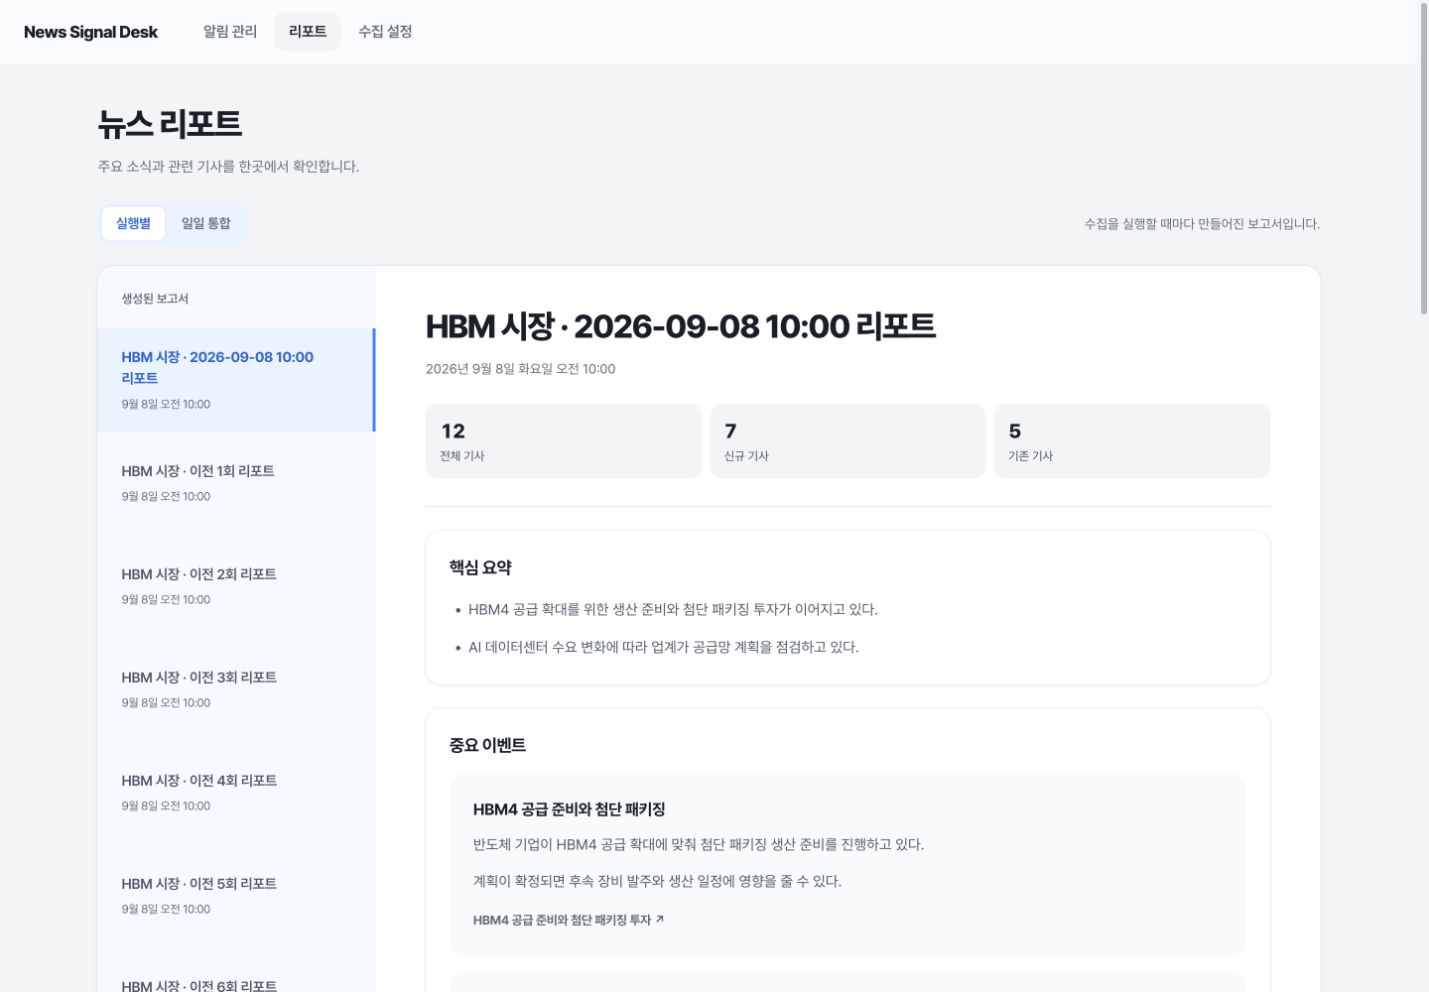
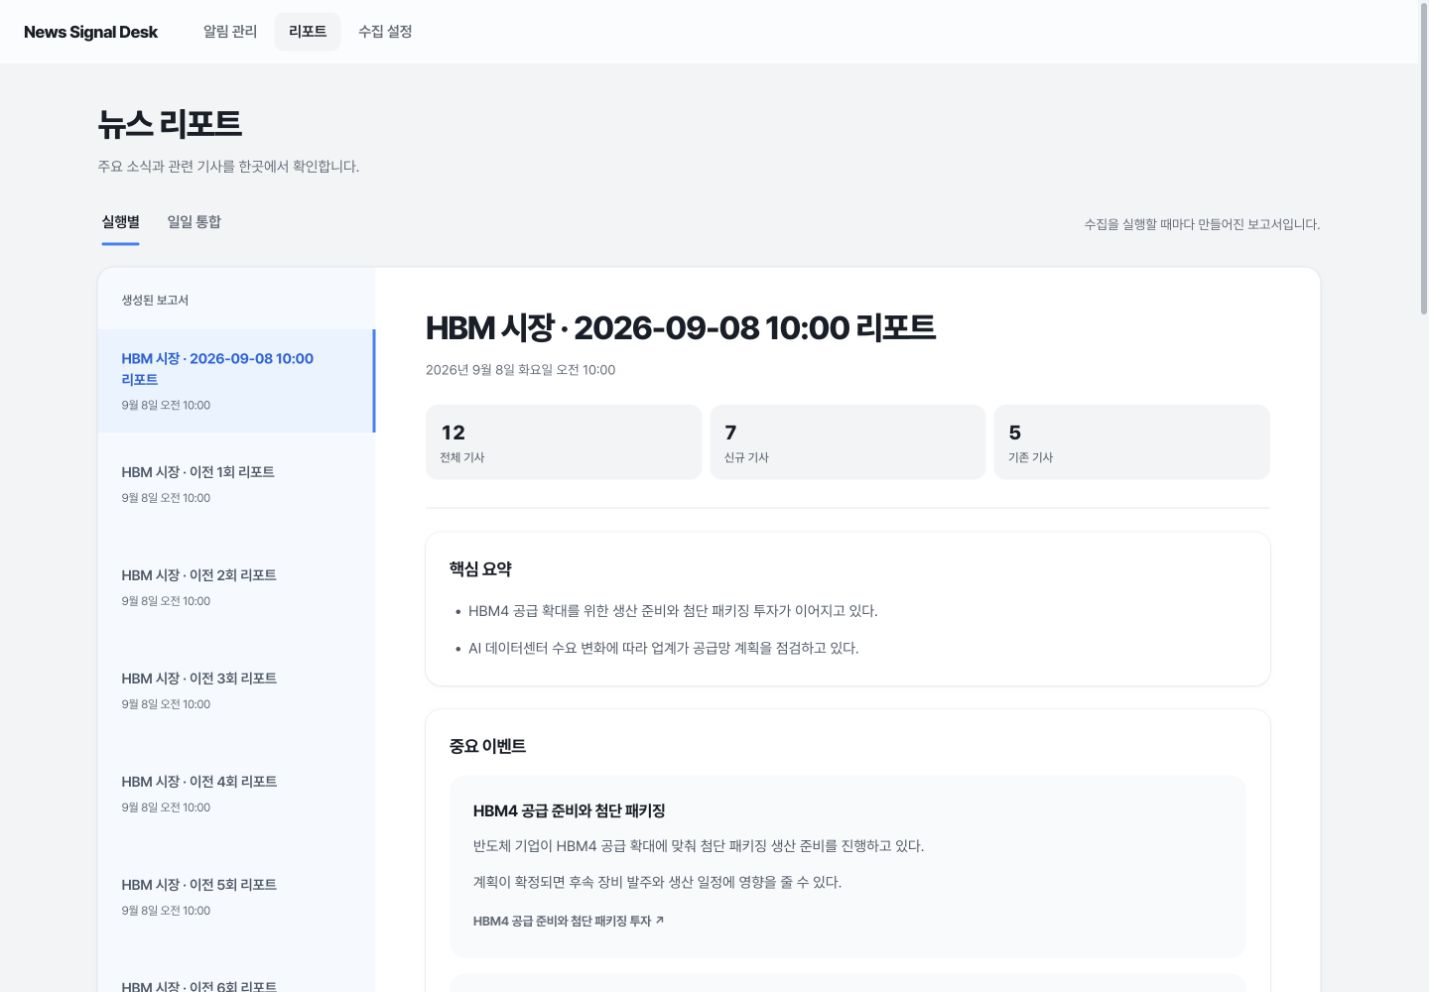
[REFACTOR/#194] 보고서 범위 선택을 텍스트 탭으로 정리

diff --git a/FE/src/App.css b/FE/src/App.css
@@ -2655,23 +2655,38 @@ body.modal-open {
 }
 
 .segmented.report-scope-tabs {
-  padding: 0.25rem;
-  border-radius: var(--radius-sm);
-  background: var(--primary-weak);
+  gap: 1.25rem;
+  padding: 0;
+  border-radius: 0;
+  background: transparent;
 }
 
 .report-scope-tabs .segmented-thumb {
-  border-radius: var(--radius-xs);
-  box-shadow: var(--hairline);
+  border-radius: 0;
+  background: transparent;
+  box-shadow: none;
+}
+
+.report-scope-tabs .segmented-thumb::after {
+  position: absolute;
+  right: 0.25rem;
+  bottom: 0;
+  left: 0.25rem;
+  height: 3px;
+  border-radius: 999px;
+  background: var(--primary);
+  content: '';
 }
 
 .report-scope-tabs .segmented-option {
-  border-radius: var(--radius-xs);
+  padding: 0.5rem 0.25rem 0.8rem;
+  border-radius: 0;
+  font-size: 0.94rem;
 }
 
 .report-scope-tabs .segmented-option.active,
 .report-scope-tabs .segmented-option.active:hover {
-  color: var(--primary-strong);
+  color: var(--fg);
 }
 
 .report-scope-hint {

diff --git a/docs/validation/refactor-194/validation.md b/docs/validation/refactor-194/validation.md
@@ -29,7 +29,7 @@
 - 보고서 제목의 카드 상단 간격을 24px에서 40px로 늘렸다. 목록 제목의 상단 간격은 36px에서 24px로 줄이고 목록 항목의 텍스트와 가로 정렬을 맞췄다.
 - 사용자 참고 이미지에 맞춰 데스크톱 목록을 직선형 사이드바로 구성했다. 선택 행 전체에 기존 옅은 파란색을 적용하고 본문에 닿는 오른쪽 끝에 3px 파란 포인트를 표시한다. 둥근 외곽 카드와 흰 본문은 유지한다. 굴곡진 연결 모양·위치 측정 코드 없이 CSS로 구현했다.
 - 사이드바 바탕은 선택색과 같은 계열의 아주 옅은 블루로 변경했다. 기존 `--primary-weak`를 흰색과 45% 혼합하고 hover는 70%, 선택 행은 기존 100% 색상으로 구분한다. CUA에서 기본 배경·선택 면·본문의 색상 조화를 확인하고 FE production build를 다시 통과했다.
-- 실행별·일일 통합 두 버튼에만 블루 트랙과 작은 둥근 모서리, 흰 선택 면·파란 글자를 적용했다. 보고서 바깥의 기존 위치와 간격을 유지하며 가로로 감싸는 도구 영역이나 외곽 박스는 추가하지 않았다. 기존 Segmented 이동 모션을 유지했고 CUA에서 일일 통합 전환 시 보고서 목록·본문 변경, 실행별 복귀, 모바일 가로 넘침 없음을 확인했다.
+- 실행별·일일 통합은 배경 없는 텍스트 탭으로 정리했다. 선택한 탭은 진한 글자와 글자 폭에 맞춘 3px 파란 밑줄로 표시하며, 보고서 바깥의 기존 위치와 간격을 유지한다. 기존 Segmented 이동 모션을 유지했고 CUA에서 일일 통합 전환 시 보고서 목록·본문 변경, 실행별 복귀, 모바일 가로 넘침 없음을 확인했다. 변경 후 FE production build가 통과했다.
 - 본문 전체의 좌우 여백은 화면 폭에 따라 32~56px로 늘렸다(1440px에서 약 50px, 920px에서 약 32px). 제목·통계·본문 카드가 같은 기준선으로 정렬된다. 제목 위 40px 여백은 유지했다.
 - CUA에서 1440px·920px·390px을 확인했다. 데스크톱의 선택 항목 오른쪽과 본문 왼쪽 좌표 차이는 0px이며, 목록 끝 항목 선택 시 스크롤과 본문 제목 일치를 확인했다. 목록 제목과 행의 텍스트 시작점 차이는 0px, 일반 행과 선택 행 높이는 모두 104px이다.
 - 모바일에서는 기존 가로 목록·둥근 선택 카드·스크롤바와 24px 본문 여백을 유지한다. 세 화면 모두 페이지 가로 넘침이 없다.
